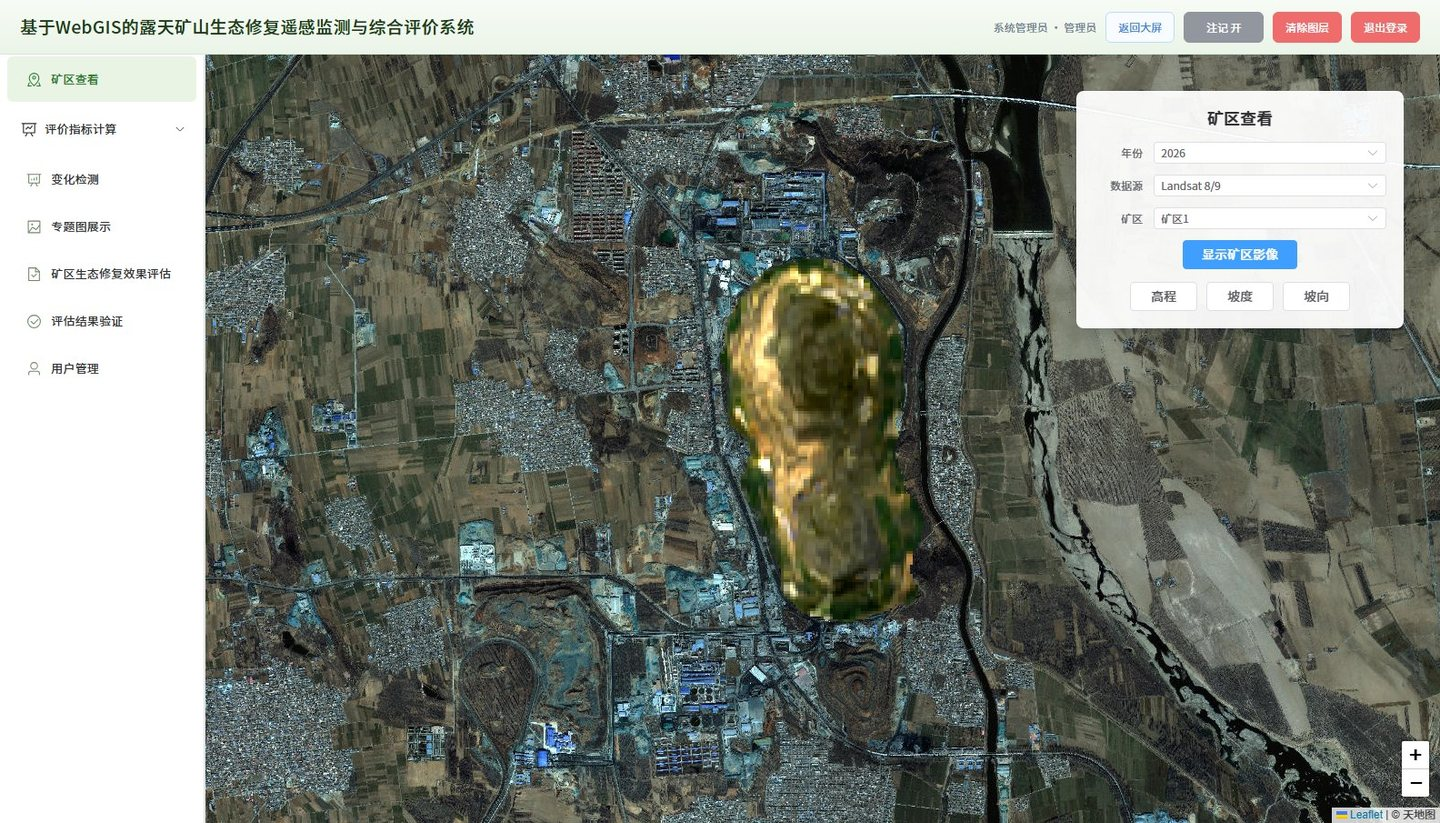
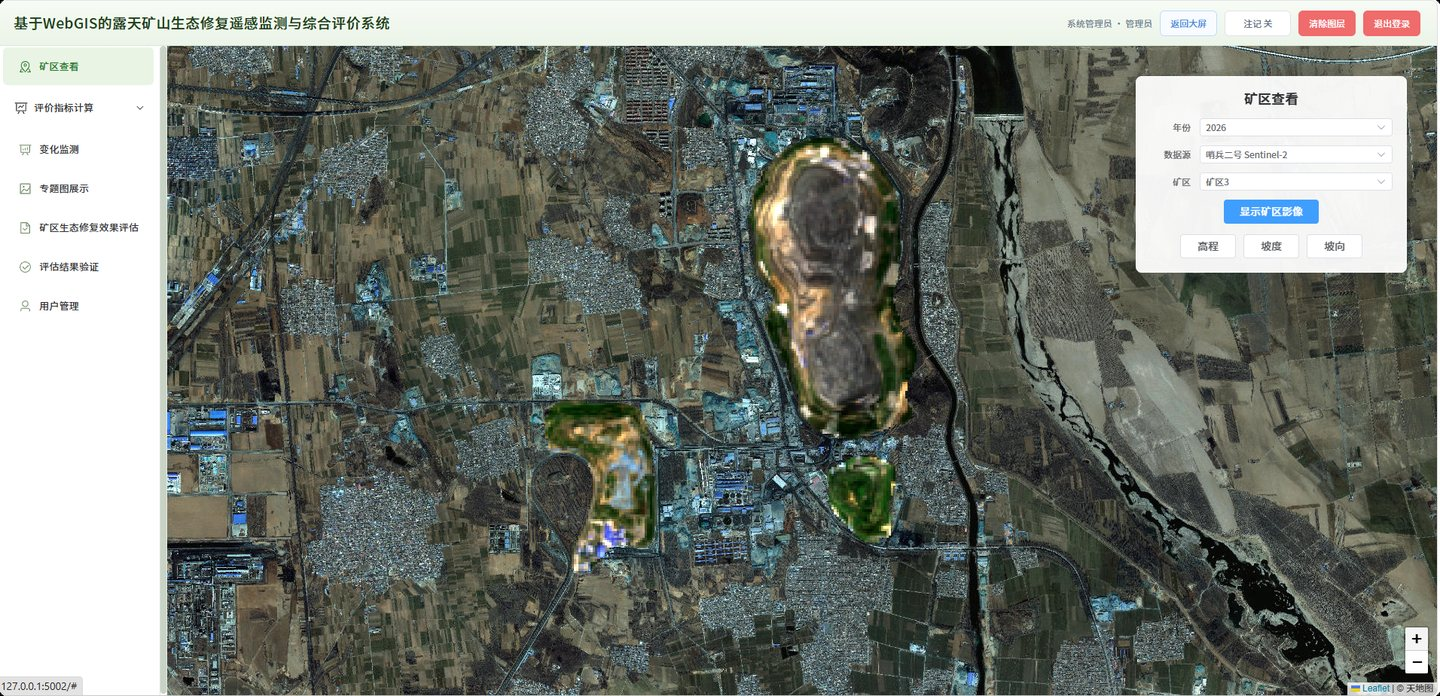
update: 更新运行截图与说明

diff --git a/README.md b/README.md
@@ -75,6 +75,10 @@ npm run build
 
 ![矿区查看](docs/screenshots/mine-view.jpg)
 
+下图为 2026 年高程（DEM）显示，三个矿区同屏：
+
+![高程](docs/screenshots/elevation.jpg)
+
 ### 评价指标计算
 
 五项指标共用统一页面，下图为 FVC 计算结果。
@@ -105,13 +109,9 @@ npm run build
 
 ### 矿区生态修复效果评估
 
-管理评价记录，展示五项指标、环境协调性、土壤污染、年份、修复等级与综合得分。
+管理评价记录，展示五项指标、环境协调性、土壤污染、年份、修复等级与综合得分；点击「图形分析」可展开指标年度变化曲线与等级柱状图。
 
-![矿区生态修复效果评估](docs/screenshots/evaluate.jpg)
-
-点击「图形分析」展开指标年度变化曲线与生态评估等级柱状图：
-
-![图形分析](docs/screenshots/evaluate-analysis.jpg)
+![矿区生态修复效果评估](docs/screenshots/evaluate-analysis.jpg)
 
 ### 评估结果验证
 
